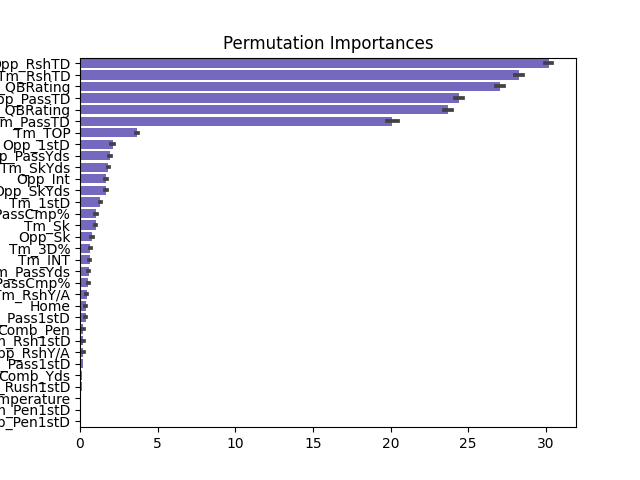
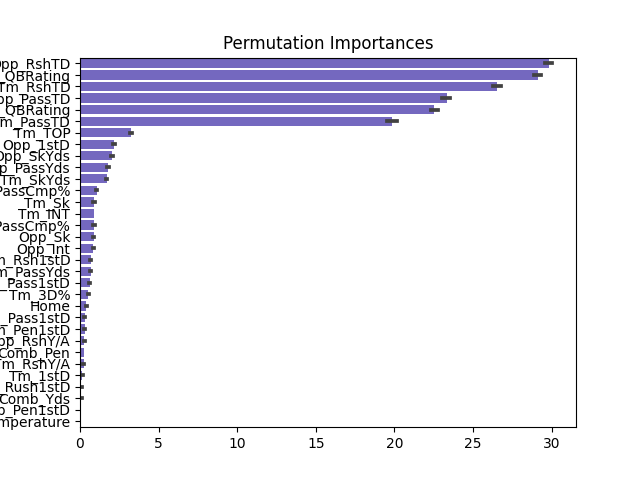
added model development code
need to fix nn model due to variability of outputs, and try new set of features

diff --git a/src/postpi.py b/src/postpi.py
@@ -1,0 +1,57 @@
+import numpy as np
+import matplotlib.pyplot as plt
+import statsmodels.api as sm
+import random
+
+
+def figure3_plots(y_pred, y_test):
+    fig, axes = plt.subplots(1, 1)
+    fig.set_size_inches(6, 6)
+
+    best_fit = np.arange(min(y_test), max(y_test))
+
+    axes.scatter(x=y_test, y=y_pred, c="purple", alpha=0.35)
+    axes.plot(best_fit, best_fit, c="red")
+    axes.set(xlabel="y-observed", ylabel="y-predicted")
+    axes.set_title("Sci-Kit Learn MLPRegressor")
+
+    plt.savefig("src/plots/postpi_Fig2.png")
+
+
+def bootstrap_(x_val, y_val_pred, y_val_actual, relationship_model, param=True, B=100):
+    bootstrap_sample_pairs = []
+
+    for i in range(len(x_val)):
+        bootstrap_sample_pairs.append([x_val.values[i]] + [y_val_pred[i]])
+
+    beta_estimators = []
+    se_beta_estimators = []
+    
+    for b in range(B):
+        # sample from the validation set with replacement
+        bs_sample = random.choices(bootstrap_sample_pairs, k=len(bootstrap_sample_pairs))
+        
+        covariates = np.array([i[0] for i in bs_sample])
+        y_p_b = np.array([i[-1] for i in bs_sample])
+        
+        # correct predictions according to relationship model
+        y_b = relationship_model.predict(sm.add_constant(y_p_b.reshape(-1,1)))
+        
+        # inference model - OLS
+        inf_model = sm.OLS(y_b, sm.add_constant(covariates.reshape(-1,1))).fit()
+
+        beta_estimators.append(inf_model.params[1])
+        se_beta_estimators.append(inf_model.bse[1])
+        
+    beta_hat_boot = np.median(beta_estimators)
+    se_hat_boot = None
+    if param:
+        se_hat_boot = np.median(se_beta_estimators)
+    else:
+        se_hat_boot = np.std(beta_estimators)
+    
+    return beta_hat_boot, se_hat_boot
+
+
+def postprediction_inference():
+    return

diff --git a/run.py b/run.py
@@ -4,7 +4,8 @@ sys.path.insert(0, './src')
 from get_data import *
 from preprocess_data import *
 from baseline_model import *
-from model_tf import *
+from model_MLP import *
+from postpi import *
 
 # adding try, except block so that we can use the test file as neccessary
 try:
@@ -48,6 +49,15 @@ def main(targets):
         mdl = train_nn(X_train, X_test, y_train, y_test, cn)
     else:
         mdl = build_model(train, test)
+
+    y_pred = mdl.predict(X_test)
+    print(y_test.mean())
+    superbowl_pred = np.array(pd.read_csv("./src/final_data/superbowl.csv").columns).astype(float)
+    superbowl_pred = mdl.predict([superbowl_pred])
+    print(superbowl_pred)
+
+    figure3_plots(y_pred, y_test)
+
         
 
 

diff --git a/src/model_MLP.py b/src/model_MLP.py
@@ -75,7 +75,7 @@ def train_nn(X_train, X_test, y_train, y_test, cn):
     )
     plt.savefig("./src/plots/Permutation_Importances.png")
 
-    return model
+    return clf
     
             
 
